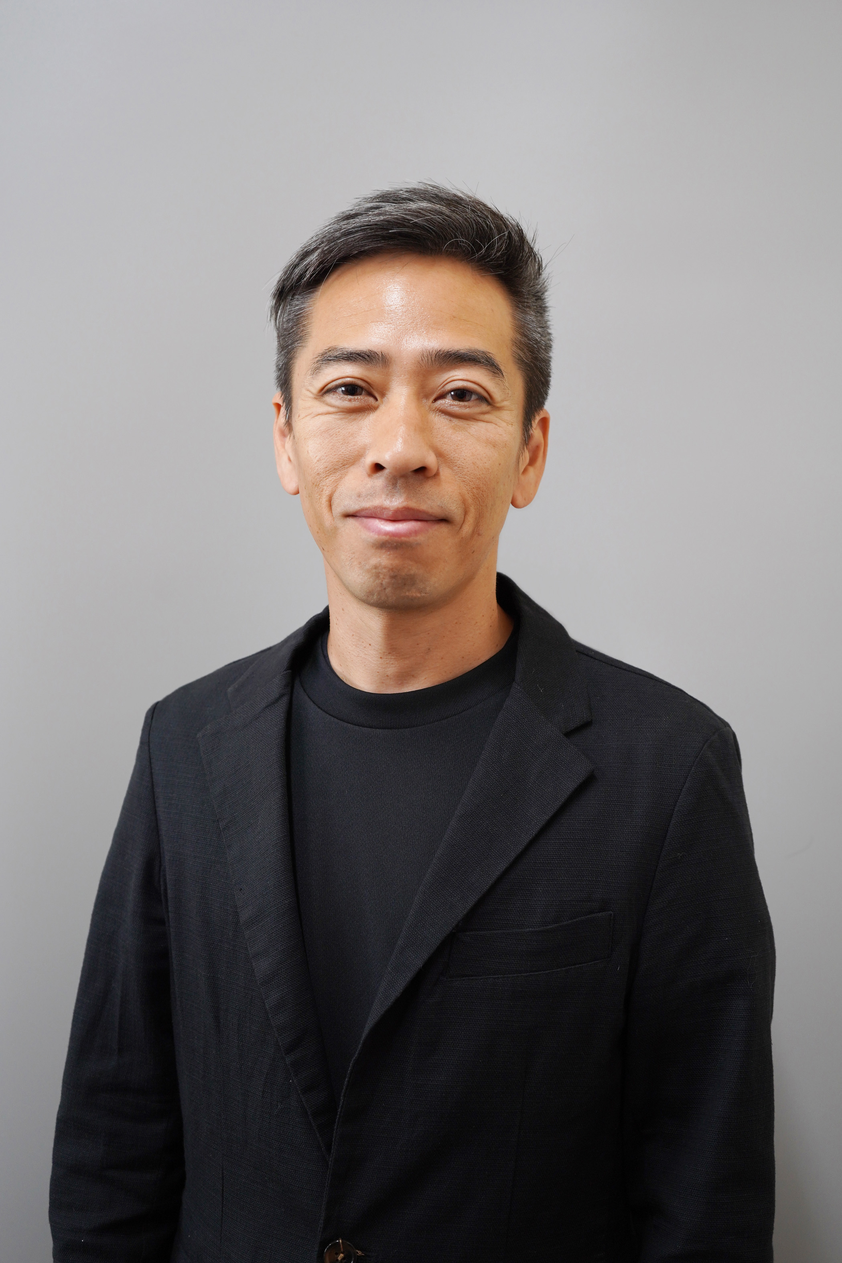
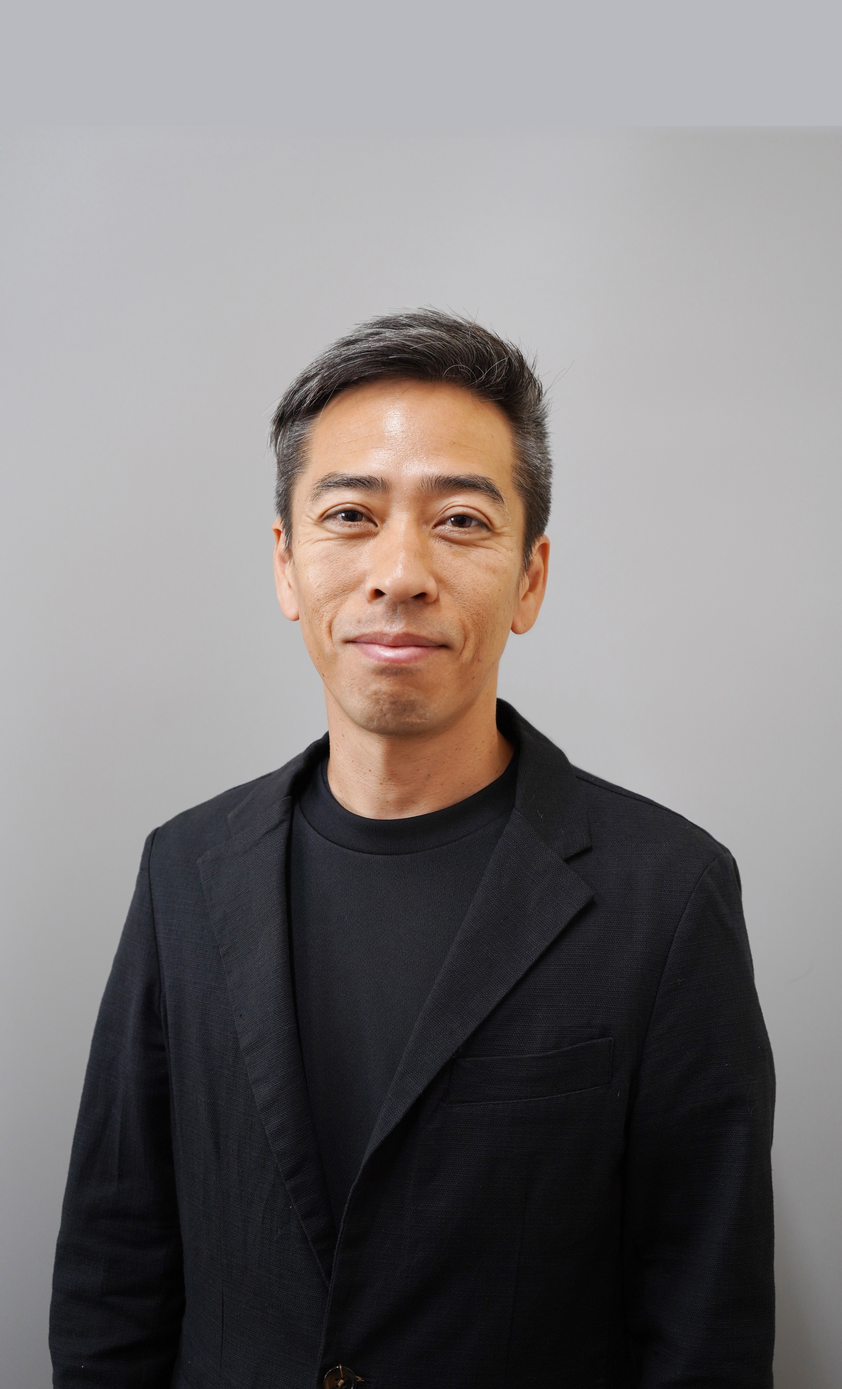
Add files via upload

Changed region(s): [[0.0619, 0.1245, 0.929, 0.9025], [0.7432, 0.6535, 0.7742, 0.6847], [0.4335, 0.6535, 0.4645, 0.6847]]

diff --git a/research1.html b/research1.html
@@ -57,44 +57,24 @@ nav {
 .section h2 span { display: inline-block; width: 3px; height: 1em; background: var(--gold); margin-right: 0.75rem; vertical-align: middle; }
 .section p { font-size: 0.92rem; color: var(--slate); line-height: 2; margin-bottom: 1.25rem; }
 
-/* Figure mock */
-.figures { display: grid; grid-template-columns: repeat(auto-fit, minmax(280px, 1fr)); gap: 1.5rem; margin: 2rem 0; }
-.figure {
-  border: 1px solid var(--border);
-  border-radius: 6px;
-  overflow: hidden;
-  background: var(--white);
+.bridge-box {
+  background: linear-gradient(135deg, #f0f4ff 0%, #e8f0eb 100%);
+  border-left: 3px solid var(--gold);
+  padding: 1.5rem 1.75rem;
+  margin: 2rem 0;
+  border-radius: 0 6px 6px 0;
 }
-.figure-mock {
-  height: 220px;
-  background: linear-gradient(135deg, #e8edf5 0%, #d1d9ea 100%);
-  display: flex; flex-direction: column; align-items: center; justify-content: center;
-  gap: 0.75rem; position: relative;
-}
-.figure-mock::before {
-  content: '';
-  width: 60px; height: 60px;
-  border: 2px dashed rgba(44,74,138,0.3);
-  border-radius: 50%;
-}
-.figure-mock-icon {
-  position: absolute;
-  font-size: 2rem;
-  opacity: 0.3;
-}
-.figure-num {
-  font-family: 'Source Code Pro', monospace;
-  font-size: 0.72rem;
-  color: var(--accent);
-  letter-spacing: 0.1em;
-}
-.figure-caption {
-  padding: 1rem 1.25rem;
-  font-size: 0.8rem;
+.bridge-box p {
+  font-size: 0.88rem;
   color: var(--slate);
-  line-height: 1.7;
-  border-top: 1px solid var(--border-light);
+  line-height: 1.9;
+  margin: 0;
 }
+.bridge-box strong { color: var(--navy); font-weight: 500; }
+
+.figures { display: grid; grid-template-columns: repeat(auto-fit, minmax(280px, 1fr)); gap: 1.5rem; margin: 2rem 0; }
+.figure { border: 1px solid var(--border); border-radius: 6px; overflow: hidden; background: var(--white); }
+.figure-caption { padding: 1rem 1.25rem; font-size: 0.8rem; color: var(--slate); line-height: 1.7; border-top: 1px solid var(--border-light); }
 .figure-caption strong { color: var(--navy); font-weight: 500; }
 
 .back-link {
@@ -129,14 +109,44 @@ footer { background: var(--navy-dark); border-top: 1px solid rgba(255,255,255,0.
   <div class="section">
     <h2><span></span>シクロデキストリンとは</h2>
     <p>シクロデキストリン（CD）は、グルコース分子が環状に連なった天然由来のオリゴ糖です。分子の中央に<strong>疎水性の空洞</strong>を持つカプセル状の構造をしており、その空洞の中にさまざまな分子やイオンを選択的に取り込みます。この現象を「<strong>包接</strong>」と呼び、できた錯体を「<strong>包接錯体</strong>」と呼びます。</p>
+    <p>包接という現象の本質は、<strong>分子間相互作用</strong>にあります。シクロデキストリンの化学は、疎水性相互作用・水素結合・ファンデルワールス力といった分子間の力を理解し、応用することを目指して発展してきました。生体内でも同様の分子間相互作用が酵素反応・受容体結合・脂質の消化吸収など多くの現象を支配しており、シクロデキストリン研究はその理解と応用への橋渡し役を担っています。</p>
     <p>シクロデキストリンには、グルコースの数によって3種類があります。6個のグルコースからなるα-CD、7個のβ-CD、8個のγ-CDで、空洞のサイズがそれぞれ異なります。比較的小さな分子に対しては分子全体を包接できますが、大きな分子に対してはその一部のみを包接することもあります。脂肪酸とシクロデキストリンとの包接錯体はその代表的な例です。</p>
     <p>シクロデキストリンは<strong>食べられる化合物</strong>であることも大きな利点の一つです。この「食べられる分子カプセル」を利用した研究を進めています。</p>
   </div>
 
   <div class="section">
-    <h2><span></span>研究内容</h2>
-    <p>α・β・γシクロデキストリンとさまざまな分子との包接錯体形成について、<strong>NMR分光法</strong>や<strong>熱力学的解析</strong>を用いて研究してきました。包接錯体の構造・安定性・選択性を解析し、分子認識の機構を明らかにすることが本研究の柱です。</p>
-    <p>これまでに、有機溶媒・エチレングリコール・シクロアルカノール・ナフタレン誘導体・有機リン酸などとの包接錯体の結合定数を決定し、包接の熱力学的特性を明らかにしてきました。また、シクロデキストリン誘導体（グアニジノ基付加体・メチル化体など）の合成と、その分子認識特性についても研究しています。</p>
+    <h2><span></span>基礎研究の蓄積</h2>
+    <p>当研究室ではかつて、α・β・γ-シクロデキストリンとさまざまな分子との包接錯体形成を<strong>NMR分光法</strong>や<strong>熱力学的解析</strong>によって体系的に研究していました。有機溶媒・エチレングリコール・シクロアルカノール・ナフタレン誘導体・有機リン酸などとの包接錯体の結合定数を決定し、包接の構造・安定性・選択性を定量的に明らかにしてきました。また、シクロデキストリン誘導体（グアニジノ基付加体・メチル化体など）の合成と分子認識特性についても研究しています。</p>
+    <p>その後、学部のNMR装置の運用停止を機に、研究の軸を<strong>応用分野へとシフト</strong>しました。しかし基礎研究で培った「どのゲスト分子がどのCDに、どの程度包接されるか」という分子レベルの知見は、現在の食品応用研究においても研究の根幹をなしています。<strong>γ-CDとエゴマ油の組み合わせを選んだ理由</strong>も、この基礎研究の蓄積があってこそです。</p>
+
+    <div class="bridge-box">
+      <p>基礎研究で得た包接化学の知見 → <strong>γ-CDとエゴマ油の包接錯体設計</strong> → <strong>体内吸収性向上の発見</strong>へ。<br>
+      土台となる分子認識の理解が、オリジナリティの高い応用研究を可能にしています。</p>
+    </div>
+  </div>
+
+  <div class="section">
+    <h2><span></span>現在の研究アプローチ</h2>
+    <p>現在は包接化学の知見を基盤に、食品機能や生体への影響を実験的に検証しています。主な分析手法は以下のとおりです。</p>
+    <ul style="list-style:none;margin:1rem 0 1.5rem;display:flex;flex-direction:column;gap:0.75rem;">
+      <li style="display:flex;gap:1rem;align-items:flex-start;font-size:0.88rem;color:var(--slate);line-height:1.8;">
+        <span style="color:var(--gold);font-weight:700;flex-shrink:0;">✓</span>
+        <span><strong style="color:var(--navy)">HPLC・LC-MS・GC-MS</strong> — 脂肪酸・アミノ酸などの定性・定量分析</span>
+      </li>
+      <li style="display:flex;gap:1rem;align-items:flex-start;font-size:0.88rem;color:var(--slate);line-height:1.8;">
+        <span style="color:var(--gold);font-weight:700;flex-shrink:0;">✓</span>
+        <span><strong style="color:var(--navy)">RT-qPCR</strong> — 遺伝子発現解析</span>
+      </li>
+      <li style="display:flex;gap:1rem;align-items:flex-start;font-size:0.88rem;color:var(--slate);line-height:1.8;">
+        <span style="color:var(--gold);font-weight:700;flex-shrink:0;">✓</span>
+        <span><strong style="color:var(--navy)">動物実験</strong> — ラット・マウスを用いた体内吸収性・臓器への影響の評価</span>
+      </li>
+      <li style="display:flex;gap:1rem;align-items:flex-start;font-size:0.88rem;color:var(--slate);line-height:1.8;">
+        <span style="color:var(--gold);font-weight:700;flex-shrink:0;">✓</span>
+        <span><strong style="color:var(--navy)">統計解析（R・Python）</strong> — 実験データの解析・可視化</span>
+      </li>
+    </ul>
+    <p>分子の「包む・包まれる」という基礎的な相互作用の理解が、食品科学・栄養学への橋渡しとなっています。</p>
   </div>
 
   <div class="section">
@@ -152,7 +162,7 @@ footer { background: var(--navy-dark); border-top: 1px solid rgba(255,255,255,0.
       </div>
       <div class="figure">
         <img src="fig.3.png" style="width:100%;height:220px;object-fit:contain;background:#f0f3f8;">
-        <div class="figure-caption"><strong>Fig. 3</strong> — NMR分光法による包接錯体の結合定数（K）の測定例。化学シフト変化からゲスト分子の空洞内位置と錯体の安定性を定量的に評価できる。</div>
+        <div class="figure-caption"><strong>Fig. 3</strong> — NMR分光法による包接錯体の結合定数（K）の測定例。化学シフト変化からゲスト分子の空洞内位置と錯体の安定性を定量的に評価した。これらの基礎データが現在の食品応用研究の設計基盤となっている。</div>
       </div>
     </div>
   </div>

diff --git a/students.html b/students.html
@@ -432,7 +432,7 @@
       </div>
       <div class="message-body">
         <p>
-          私が研究を始めたきっかけは、農業と化学の交差点に面白さを感じたことでした。
+          私が研究を始めたきっかけは、食と包接化学の交差点に面白さを感じたことでした。
           「植物由来のオメガ3系脂肪酸を、化学の力で体に届きやすくできるか」——
           その問いひとつが、今も研究室全体を動かす原動力になっています。
         </p>
@@ -636,6 +636,10 @@
   <p class="cta-desc">
     見学・質問・相談、どんなことでも構いません。<br>
     メールをいただければ、できる限り早めにお返しします。
+  </p>
+  <p style="font-size:12px;color:rgba(250,249,246,0.4);margin-bottom:2rem;line-height:2;">
+    生物資源科学部1号館 313室（松江キャンパス）<br>
+    <a href="https://www.shimane-u.ac.jp/access/matsue/" target="_blank" style="color:rgba(184,150,90,0.7);">キャンパスマップ →</a>
   </p>
   <a href="mailto:yoshikiyo@life.shimane-u.ac.jp" class="cta-btn">
     yoshikiyo [at] life.shimane-u.ac.jp

diff --git a/index.html b/index.html
@@ -1635,6 +1635,12 @@ footer {
       <div class="fade-in">
         <div class="contact-info">
           <div class="contact-item">
+            <div class="contact-item-label">居室</div>
+            <div class="contact-item-value">生物資源科学部1号館 313室<br>
+              <a href="https://www.shimane-u.ac.jp/access/matsue/" target="_blank" style="font-size:0.8rem;color:rgba(184,150,90,0.8);">キャンパスマップ →</a>
+            </div>
+          </div>
+          <div class="contact-item">
             <div class="contact-item-label">所属</div>
             <div class="contact-item-value">島根大学 生物資源科学部<br>生命科学科 生命機能科学コース</div>
           </div>
